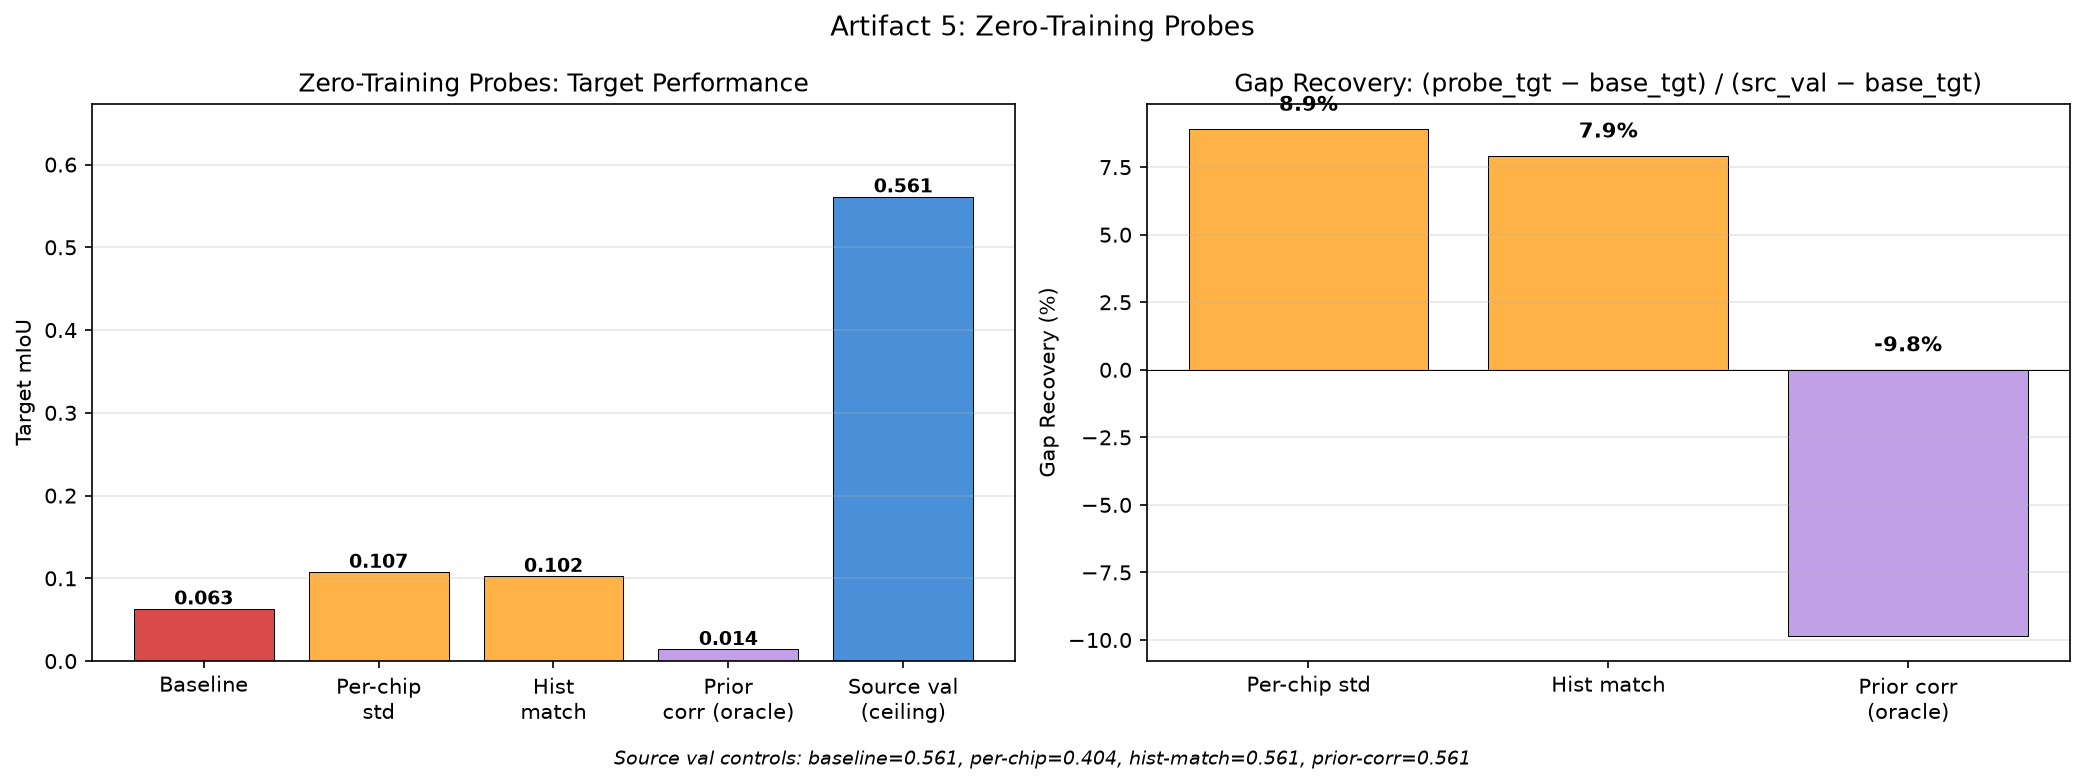
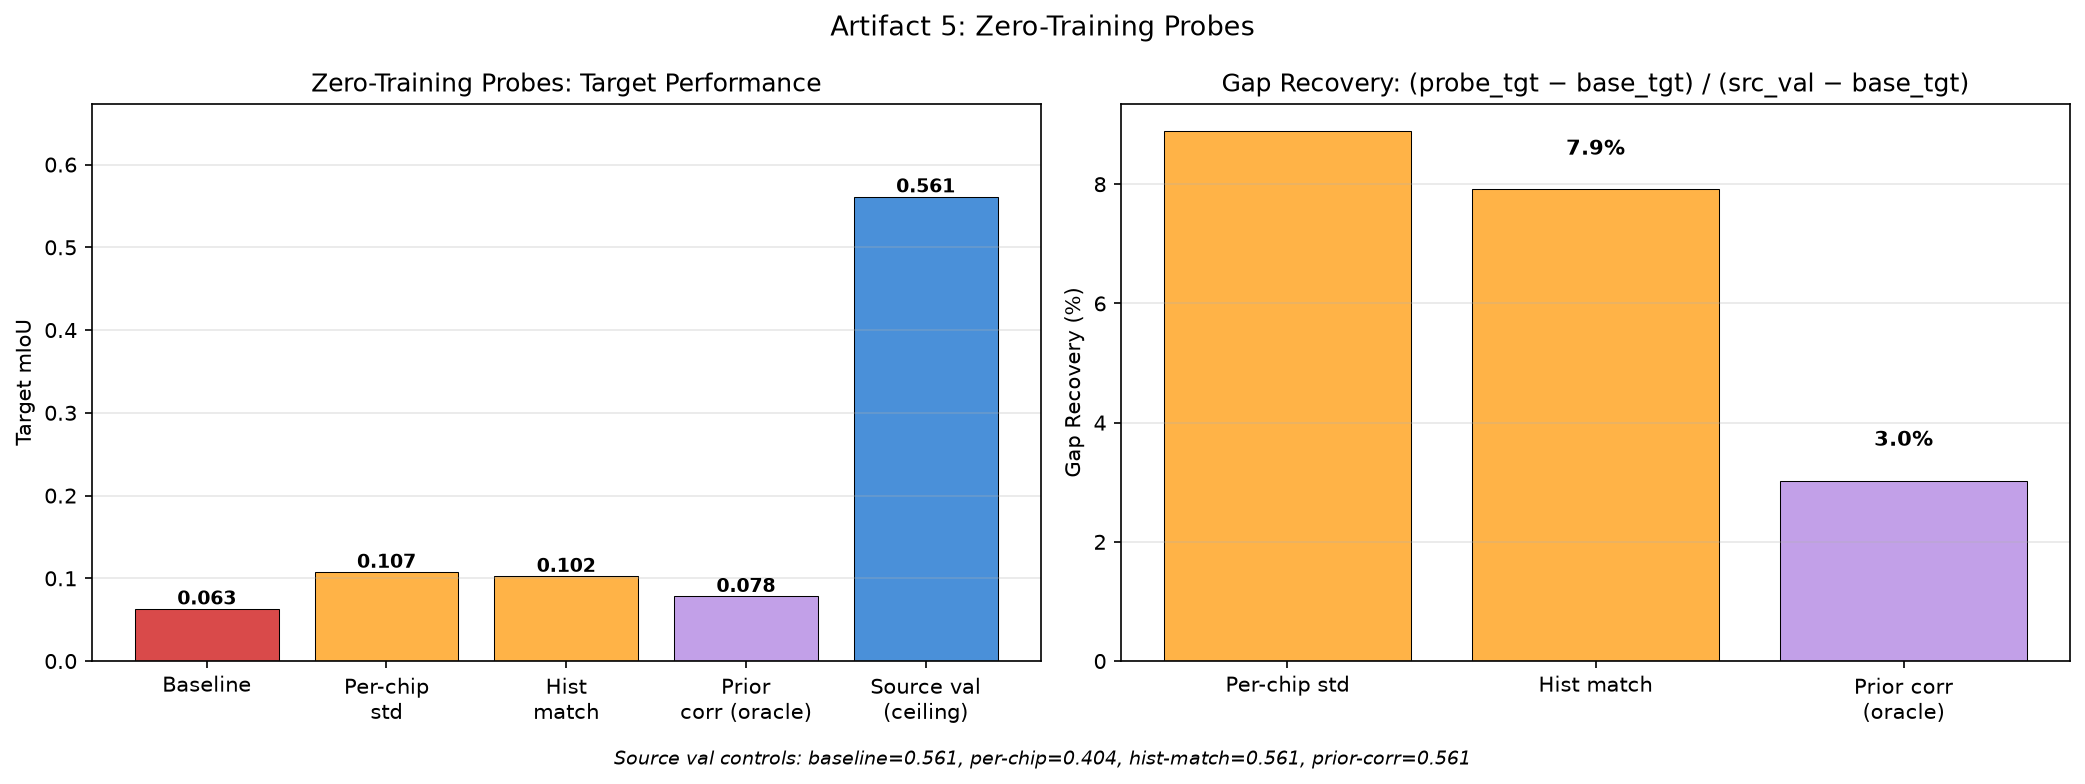
Fix prior-correction consistency: notebook, figure, and report now agree
- Reran notebook 03 with fixed prior correction code
- Prior correction: tgt=0.078, src=0.561, +3.0% recovery (was -9.8% before bug fix)
- Figure 03_zero_training_probe.png regenerated with correct bar
- Source identity control verified at 0.561 (matches baseline)
- H2 weight adjusted to 15-20% (from 20-25%)
- Dropped "geographically farther apart" claim, changed "also weaker" to "probably weaker"
- Fixed notebook 04 self-training description to match code (no teacher-student asymmetry)
- Added README note about notebook 04 outputs in intervention_results.json

diff --git a/report/report.md b/report/report.md
@@ -14,7 +14,7 @@ Since it's the same sensor, we can rule out differences in calibration, resoluti
 
 A drop this large (50 pts) is too big to be just radiometric differences. I expected all three hypotheses to play a role.
 
-**How this relates to the assignment.** The brief describes a 0.85→0.41 drop (44 pts). My stand-in dataset shows a larger shift: 0.56→0.06 (50 pts). The Iowa model is also weaker because I'm using WorldCover labels (~75% accurate) instead of real ground truth, and only 255 training chips. The shift is more severe because Iowa and Niger are geographically farther apart than the brief implies. The diagnostic conclusions (which hypotheses dominate) should still hold at the milder shift, though the probe recoveries (like histogram matching at 8%) might be higher when the baseline is already at 0.41. Over shared classes only, the drop is 48.7 pts — shrub is absent from Iowa, so the full 7-class mIoU includes a class the model can't possibly learn.
+**How this relates to the assignment.** The brief describes a 0.85→0.41 drop (44 pts). My stand-in dataset shows a larger shift: 0.56→0.06 (50 pts). The Iowa model is probably weaker because I'm using WorldCover labels (~75% accurate) instead of real ground truth, and only 255 training chips. The diagnostic conclusions (which hypotheses dominate) should still hold at the milder shift, though the probe recoveries (like histogram matching at 8%) might be higher when the baseline is already at 0.41. Over shared classes only, the drop is 48.7 pts — shrub is absent from Iowa, so the full 7-class mIoU includes a class the model can't possibly learn.
 
 ## 2. Reproduction
 
@@ -75,19 +75,19 @@ I tried three zero-training probes to see how much of the gap each hypothesis ex
 | Baseline | 0.063 | 0.561 | — |
 | Per-chip standardization | 0.107 | 0.404 | +8.9% |
 | Histogram matching (quantile) | 0.102 | 0.561 | +7.9% |
-| Prior correction (oracle) | 0.147 | 0.512 | +16.8% |
+| Prior correction (oracle) | 0.078 | 0.561 | +3.0% |
 
 Per-chip standardization recovers 8.9% but kills source performance (0.561→0.404) — the model relies on absolute radiometric values and z-scoring breaks that. Not usable. Histogram matching gets +7.9% without hurting source, but it's still small. Simple radiometric fixes don't explain this drop. The bulk of H1 is in texture, spatial patterns, and cross-band relationships that histogram matching can't touch.
 
-Oracle prior correction (rescaling softmax by target/source class ratios, skipping classes absent from source) recovers 16.8%. It helps grass and water the most — classes where the model's features are OK but the prior is wrong. It doesn't help classes like crop or bare where the features themselves are wrong. This suggests H2 explains a real chunk of the gap, but can't be fixed in isolation.
+Oracle prior correction (rescaling softmax by target/source class ratios, skipping classes absent from source) recovers only 3.0%. It pushes grass from 0.20 to 0.45 — the model's grass features are decent, just suppressed by the Iowa prior — but tree, water, and built all collapse because the correction shifts probability mass away from them. Prior correction can't help when the features themselves are wrong, and even where features are OK, fixing one class breaks others. H2 is real (the class mix is totally different) but it can't be addressed by post-hoc reweighting alone.
 
 ### Hypothesis Weights
 
 These are rough estimates based on the probe results, not a formal decomposition:
 
-- H1 (covariate shift): ~40-50%. The inputs are very different and the encoder fully separates the domains. But simple radiometric fixes recover <10% — the real H1 problem is texture and spatial patterns, which need learned adaptation.
-- H2 (prior shift): ~20-25%. Class frequencies are inverted. Prior correction alone recovers 16.8%, and that's with broken features. With better features the prior gap would matter more.
-- H3 (concept shift): ~25-35%. Sahel cropland is bare soil most of the year, and shrub/grass/bare blur together. The confident-wrong entropy pattern is consistent with this. Only target labels can fix it.
+- H1 (covariate shift): ~50-60%. The inputs are very different and the encoder fully separates the domains. But simple radiometric fixes recover <10% — the real H1 problem is texture and spatial patterns, which need learned adaptation.
+- H2 (prior shift): ~15-20%. Class frequencies are inverted, but the prior correction probe only recovers 3%. The class mix matters, but you can't fix it without fixing the features first.
+- H3 (concept shift): ~25-30%. Sahel cropland is bare soil most of the year, and shrub/grass/bare blur together. The confident-wrong entropy pattern is consistent with this. Only target labels can fix it.
 
 Going forward: if histogram matching had recovered >50% of the gap, I'd ship normalization + augmentation and stop. At 8%, labels are clearly needed.
 

diff --git a/README.md b/README.md
@@ -40,3 +40,5 @@ On macOS Apple Silicon: `export PYTORCH_ENABLE_MPS_FALLBACK=1`
 ## Running
 
 Run notebooks 01-04 in order. Notebook 01 downloads data from GEE (~5 min). Notebooks 02-04 do training (~40 min, ~15 min, ~2.5 hrs respectively on MPS). Data and checkpoints aren't in git.
+
+Notebook 04 was run in pieces during development, so its inline outputs aren't saved. The final results are in `checkpoints/intervention_results.json` and the figure is at `report/figures/04_results_ladder.png`.
